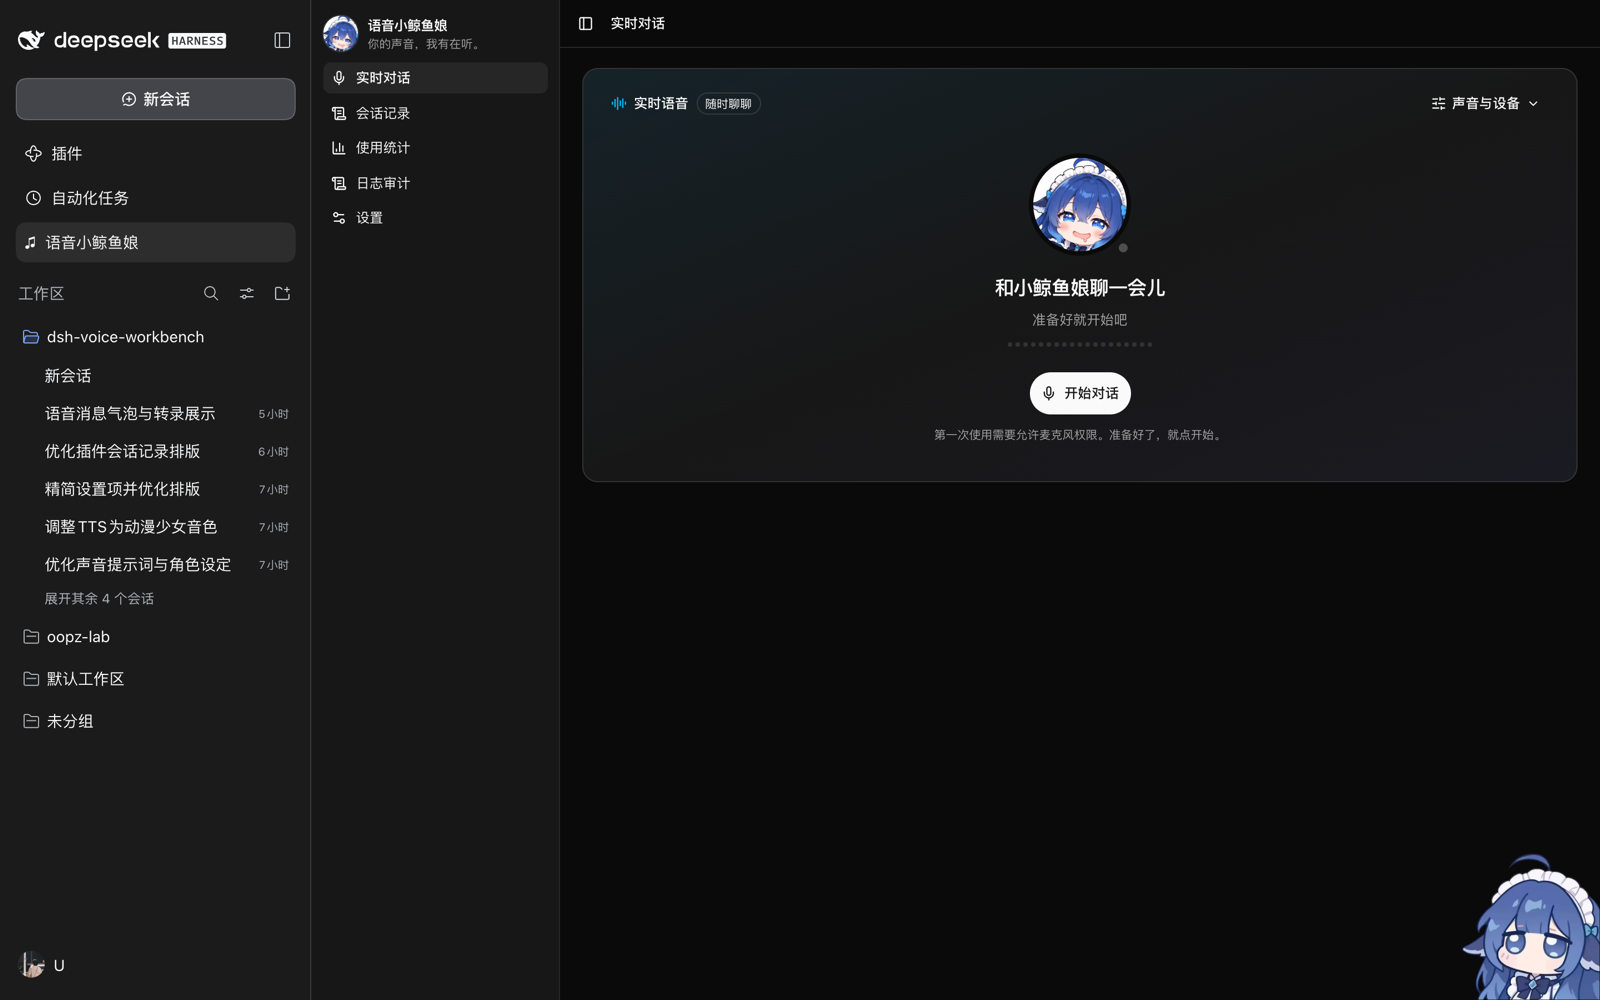
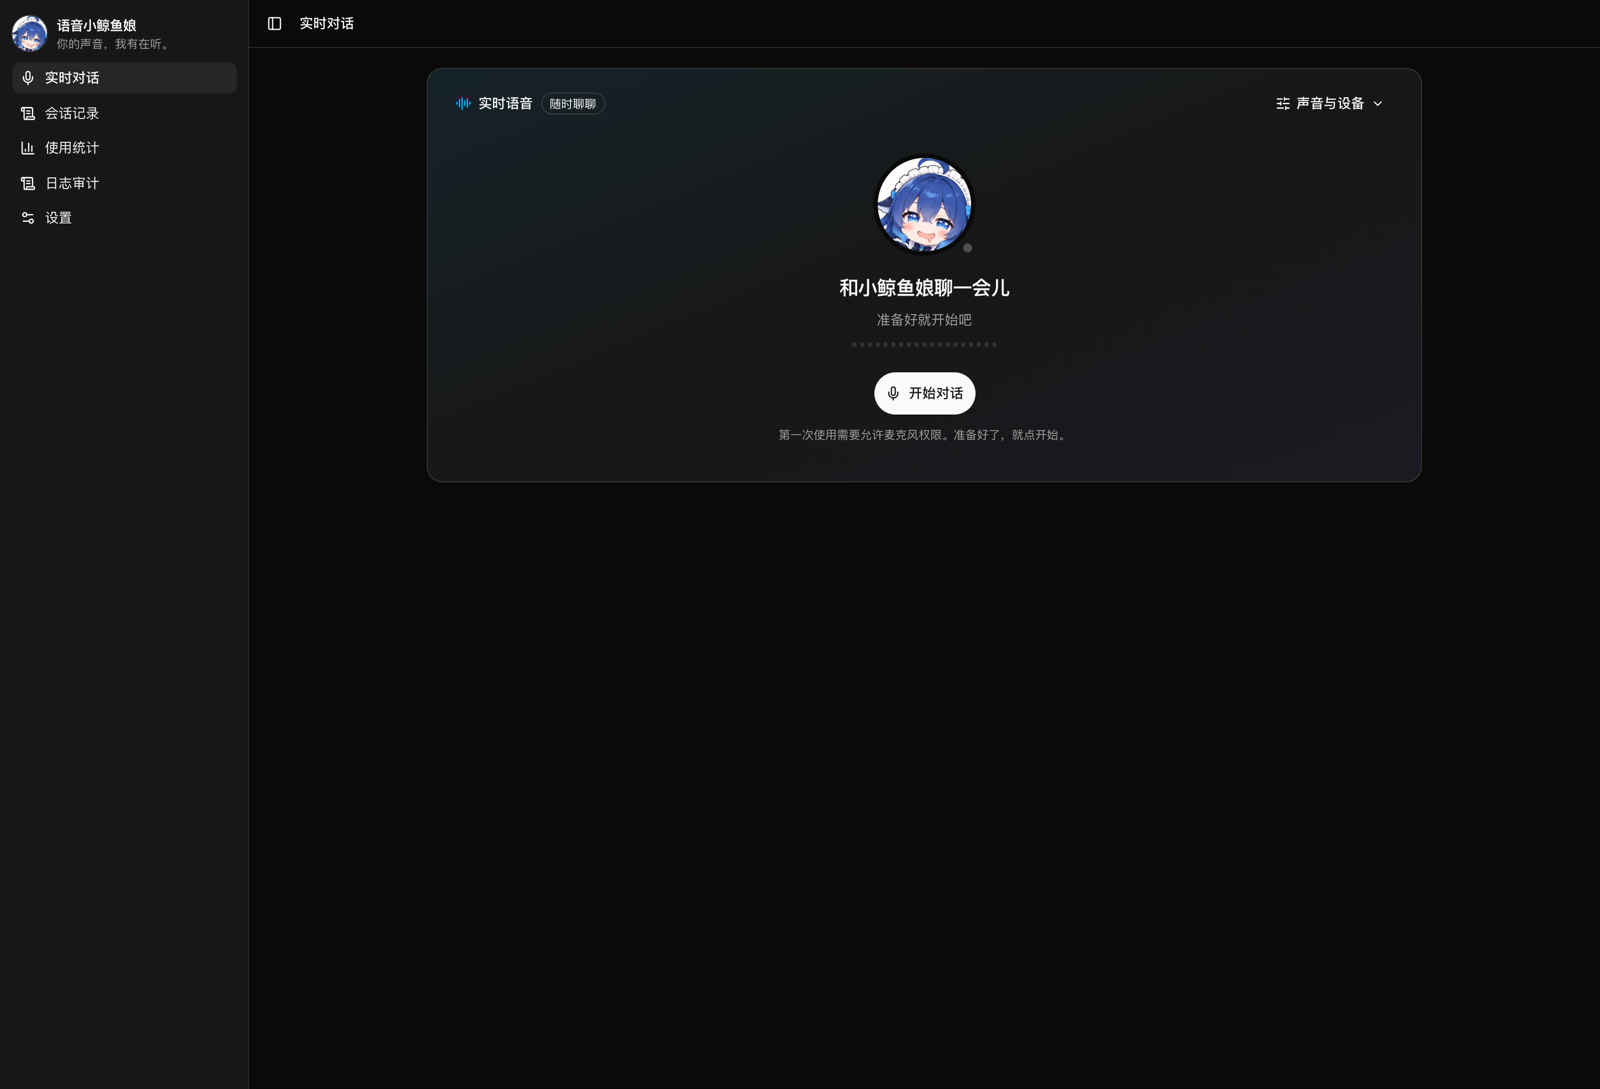
docs(screenshots): crop to the plugin panel only, hide host chrome and pet
- re-captured at 1720x980 so the audit table shows its model/token columns
- cropped at the iframe edge (x=280) instead of showing the DSH sidebar
- hide the host desktop pet before capture

diff --git a/README.md b/README.md
@@ -54,7 +54,7 @@ Realtime 用量归入对应模型回复，独立 TTS 用量归入合成记录；
 
 ![会话记录](docs/screenshots/history.png)
 
-截图均取自真实运行实例，不是设计稿：统计页的 420 条记录、审计页的 web_fetch 失败、会话页的工具卡片都来自实际使用数据。
+截图均取自真实运行实例，只保留插件界面（已裁掉 DSH 宿主的外壳）：统计页的 420 条记录、审计页的 `web_fetch` 失败、会话页的工具卡片都来自实际使用数据。
 
 ## 音色
 
